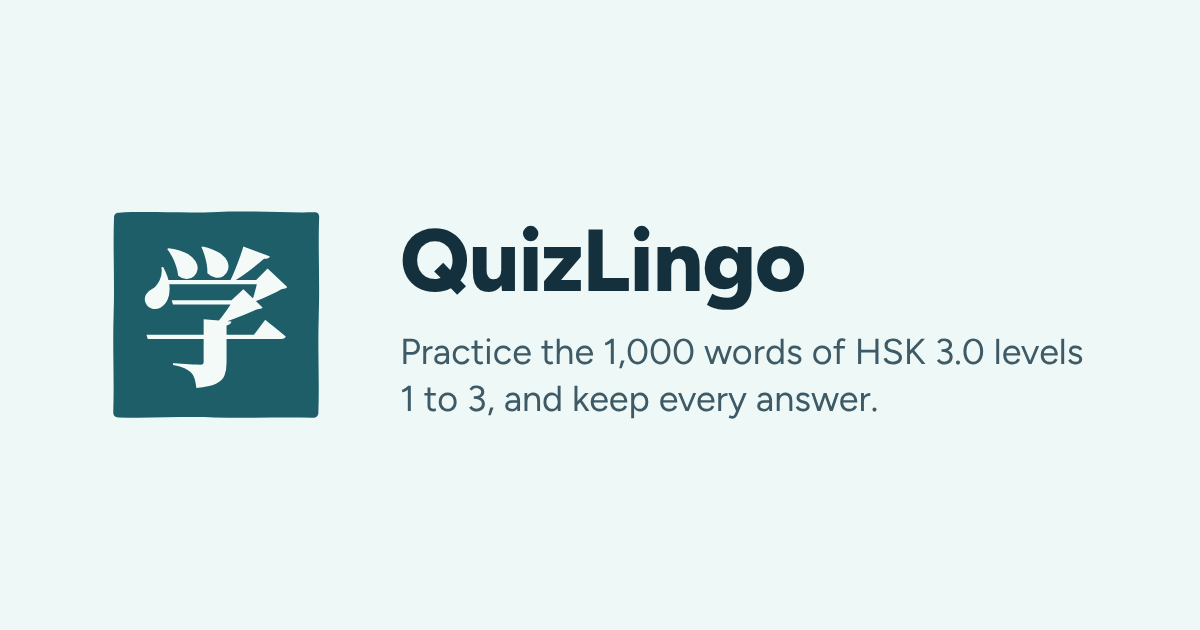
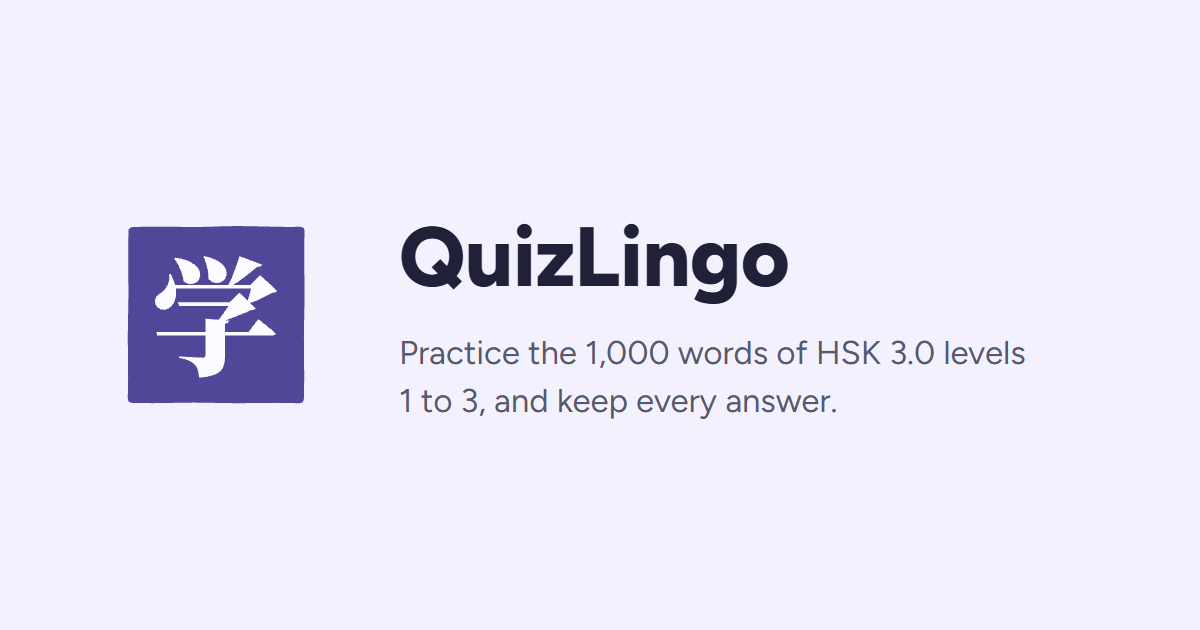
feat: switch the palette to lavender

Changed region(s): [[0.0925, 0.3317, 0.2775, 0.6635], [0.3083, 0.5127, 0.925, 0.6635], [0.3392, 0.3619, 0.6783, 0.5127]]

diff --git a/src/index.css b/src/index.css
@@ -5,16 +5,16 @@
   and neutrals tinted with the same hue. Built in OKLCH so lightness steps look even.
 */
 :root {
-  --bg: oklch(0.985 0.008 190);
-  --surface: oklch(0.962 0.016 190);
-  --tint: oklch(0.925 0.035 190);
-  --soft: oklch(0.85 0.06 190);
-  --line: oklch(0.6 0.05 200);
-  --hairline: oklch(0.9 0.015 200);
-  --strong: oklch(0.45 0.08 205);
-  --ink: oklch(0.26 0.04 230);
-  --muted: oklch(0.47 0.03 220);
-  --on-strong: oklch(0.99 0.005 190);
+  --bg: oklch(0.985 0.008 290);
+  --surface: oklch(0.962 0.016 290);
+  --tint: oklch(0.925 0.035 290);
+  --soft: oklch(0.85 0.06 290);
+  --line: oklch(0.6 0.06 288);
+  --hairline: oklch(0.9 0.015 288);
+  --strong: oklch(0.45 0.13 285);
+  --ink: oklch(0.26 0.045 280);
+  --muted: oklch(0.47 0.035 282);
+  --on-strong: oklch(0.99 0.005 290);
 
   --accent-tint: oklch(0.94 0.035 60);
   --accent-soft: oklch(0.87 0.07 60);
@@ -25,24 +25,24 @@
   --bad-tint: oklch(0.94 0.035 25);
   --bad-strong: oklch(0.5 0.15 25);
 
-  --shadow-raise: 0 1px 2px oklch(0.26 0.04 230 / 0.06), 0 2px 8px oklch(0.26 0.04 230 / 0.05);
-  --shadow-overlay: 0 8px 24px oklch(0.26 0.04 230 / 0.14), 0 2px 6px oklch(0.26 0.04 230 / 0.08);
+  --shadow-raise: 0 1px 2px oklch(0.26 0.045 280 / 0.06), 0 2px 8px oklch(0.26 0.045 280 / 0.05);
+  --shadow-overlay: 0 8px 24px oklch(0.26 0.045 280 / 0.14), 0 2px 6px oklch(0.26 0.045 280 / 0.08);
 
   color-scheme: light;
 }
 
 @media (prefers-color-scheme: dark) {
   :root {
-    --bg: oklch(0.2 0.015 205);
-    --surface: oklch(0.235 0.018 205);
-    --tint: oklch(0.29 0.03 200);
-    --soft: oklch(0.37 0.05 195);
-    --line: oklch(0.6 0.05 195);
-    --hairline: oklch(0.31 0.02 205);
-    --strong: oklch(0.8 0.08 190);
-    --ink: oklch(0.94 0.01 190);
-    --muted: oklch(0.74 0.02 200);
-    --on-strong: oklch(0.2 0.02 205);
+    --bg: oklch(0.2 0.02 285);
+    --surface: oklch(0.235 0.022 285);
+    --tint: oklch(0.29 0.035 287);
+    --soft: oklch(0.37 0.06 288);
+    --line: oklch(0.6 0.06 288);
+    --hairline: oklch(0.31 0.025 285);
+    --strong: oklch(0.8 0.1 290);
+    --ink: oklch(0.94 0.01 290);
+    --muted: oklch(0.74 0.025 285);
+    --on-strong: oklch(0.2 0.02 285);
 
     --accent-tint: oklch(0.3 0.04 55);
     --accent-soft: oklch(0.4 0.07 55);

diff --git a/index.html b/index.html
@@ -5,8 +5,8 @@
     <meta name="viewport" content="width=device-width, initial-scale=1.0, viewport-fit=cover" />
     <title>QuizLingo | HSK 3.0 practice</title>
     <meta name="description" content="Practice the HSK 3.0 vocabulary for levels 1 to 3 with flashcards and quizzes, and track every word you learn." />
-    <meta name="theme-color" content="#f5fbfa" media="(prefers-color-scheme: light)" />
-    <meta name="theme-color" content="#16201f" media="(prefers-color-scheme: dark)" />
+    <meta name="theme-color" content="#faf9ff" media="(prefers-color-scheme: light)" />
+    <meta name="theme-color" content="#15151f" media="(prefers-color-scheme: dark)" />
     <link rel="icon" type="image/svg+xml" href="/favicon.svg" />
     <link rel="icon" type="image/png" sizes="32x32" href="/favicon-32.png" />
     <link rel="apple-touch-icon" href="/apple-touch-icon.png" />
